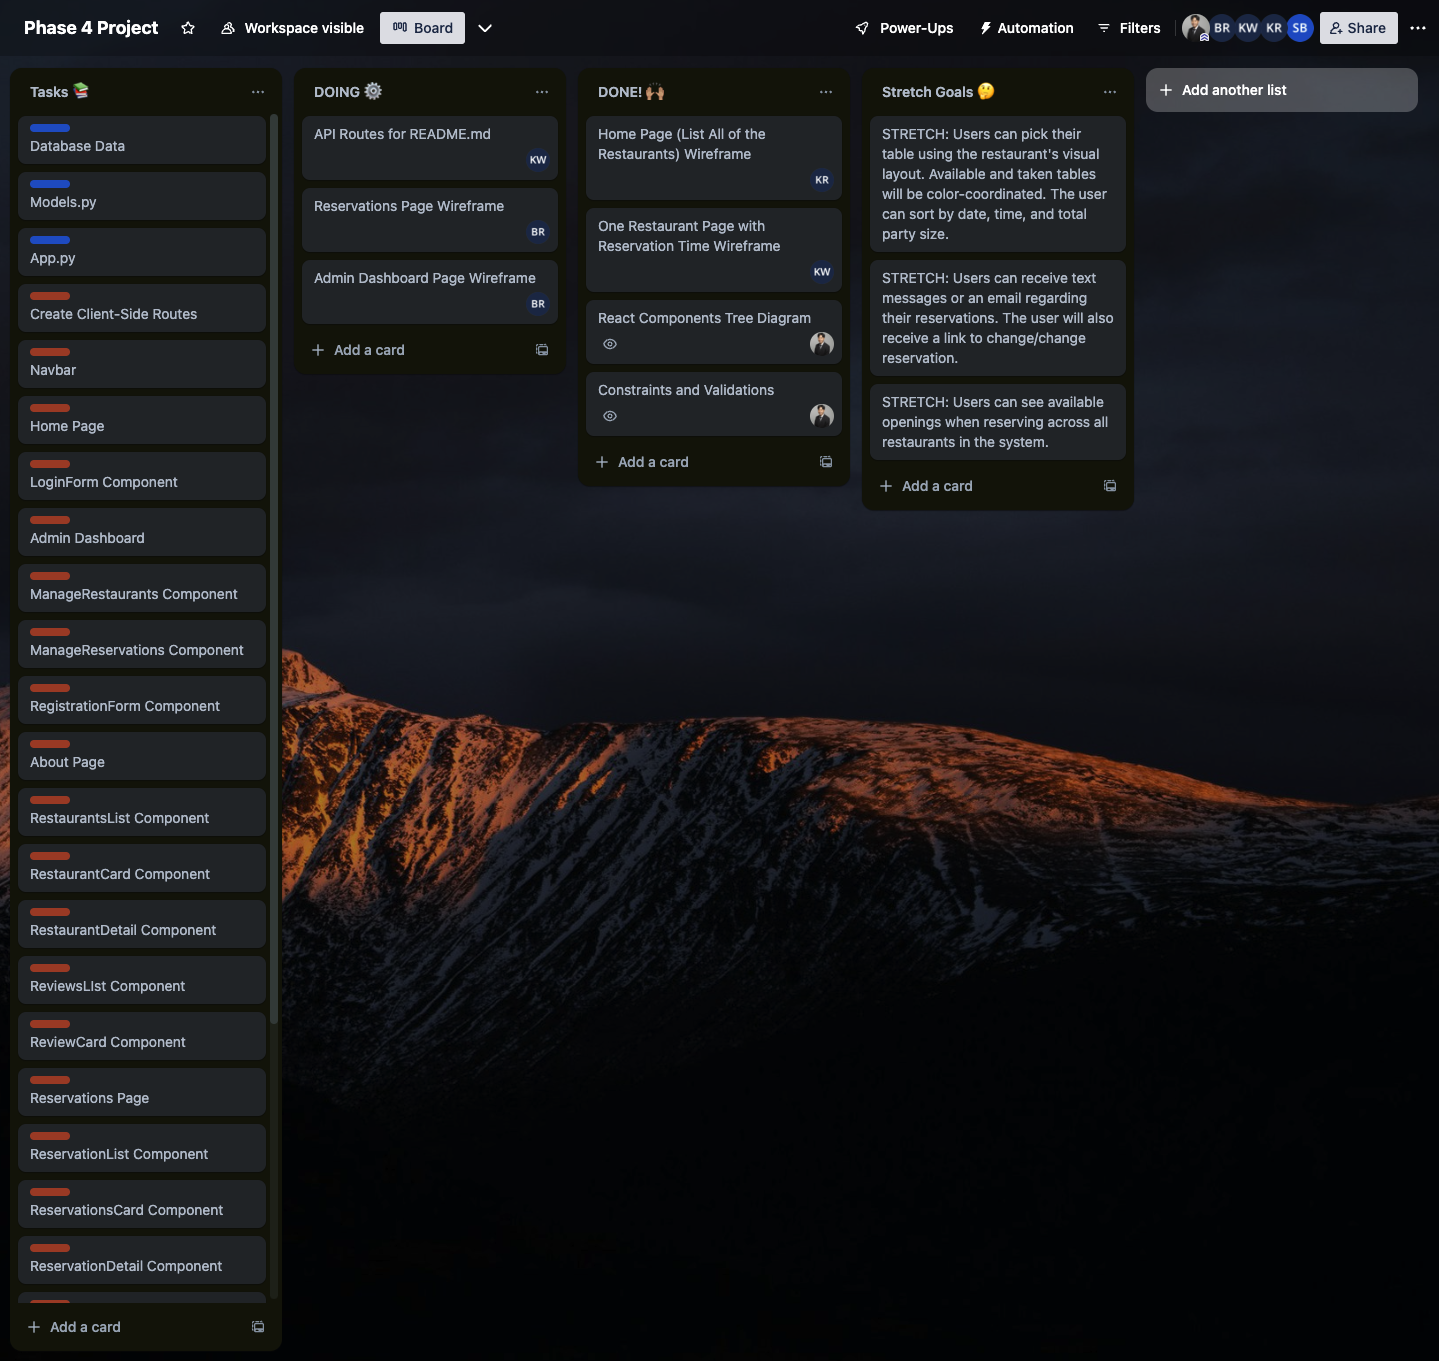
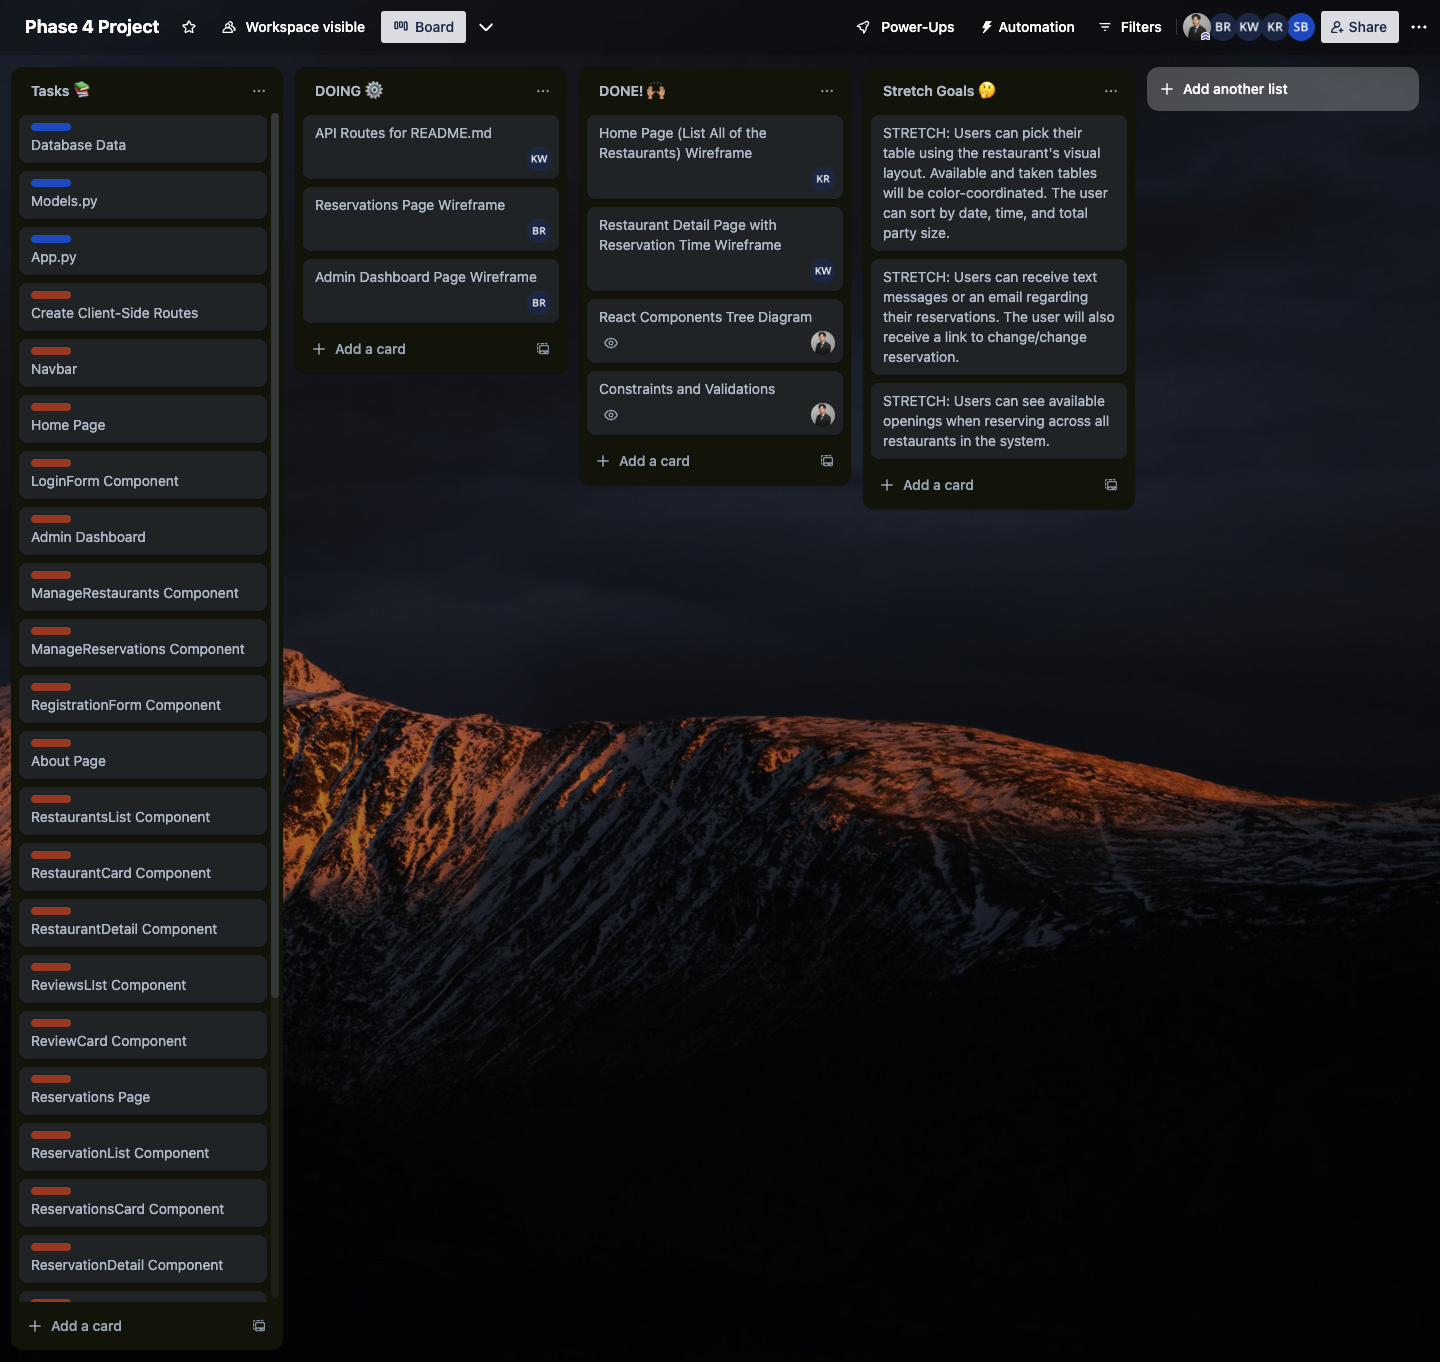
docs: Update README.md file

diff --git a/README.md b/README.md
@@ -14,7 +14,7 @@ BiteReserve is an intuitive web application that simplifies restaurant reservati
 
 ### Restaurant Detail Page
 
-![RestaurantDetailPage](./planning/Wireframe.png)
+![RestaurantDetailPage](./planning/RestaurantDetailPage.png)
 
 ### Reservations Page
 
